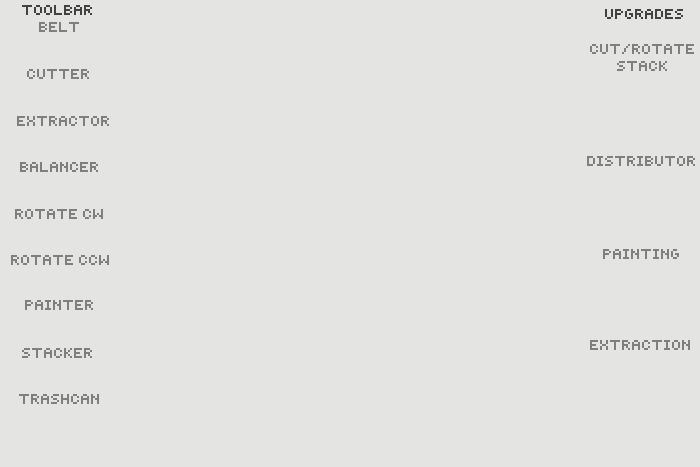
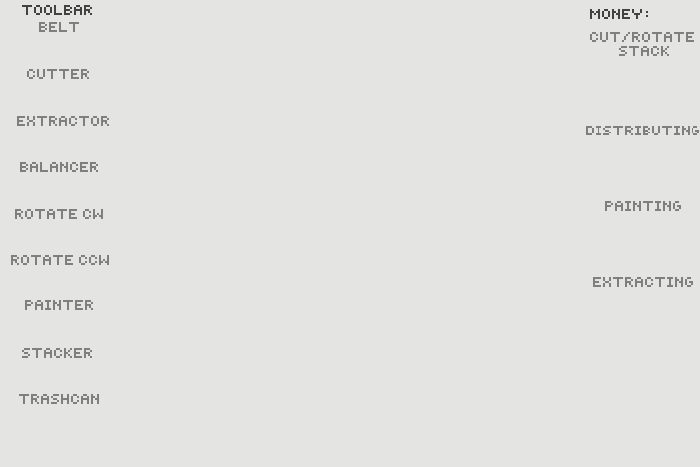
new game background

diff --git a/Blobz/MyWorld.java b/Blobz/MyWorld.java
@@ -123,15 +123,10 @@ public class MyWorld extends World
         getBackground().setFont(comicFontMid);
         getBackground().setColor(Color.MAGENTA);
         
-        Button.drawCenteredText (getBackground(), "money: ", 1200 - width*3 / 4, 30);  
-        Button.drawCenteredText (getBackground(), "crs", 1200 - width / 2, 70); 
-        Button.drawCenteredText (getBackground(), "crs", 1200 - width / 2, 100);  
+        
         addObject(new UpgradeButton("crs"), 1200 - width / 2, 150); 
-        Button.drawCenteredText (getBackground(), "bd", 1200 - width / 2, 230);  
         addObject(new UpgradeButton("bd"), 1200 - width / 2, 280); 
-        Button.drawCenteredText (getBackground(), "paint", 1200 - width / 2, 360);  
         addObject(new UpgradeButton("paint"), 1200 - width / 2, 410); 
-        Button.drawCenteredText (getBackground(), "extract", 1200 - width / 2, 490);  
         addObject(new UpgradeButton("extract"), 1200 - width / 2, 540);
         addObject(new NextLevelButton(), 1200 - width / 2, 640);
         addObject(new SoundButton(), 1200 - width / 2, 700);
@@ -465,6 +460,7 @@ public class MyWorld extends World
         timeLabel = new Label(gameTimeM + ": " + gameTime, 30);
         addObject(timeLabel,600,50);
     }
+    
     public void playDelete(){
         delete[deleteIndex].setVolume(90 * Utils.soundLevel());
         delete[deleteIndex].play();
